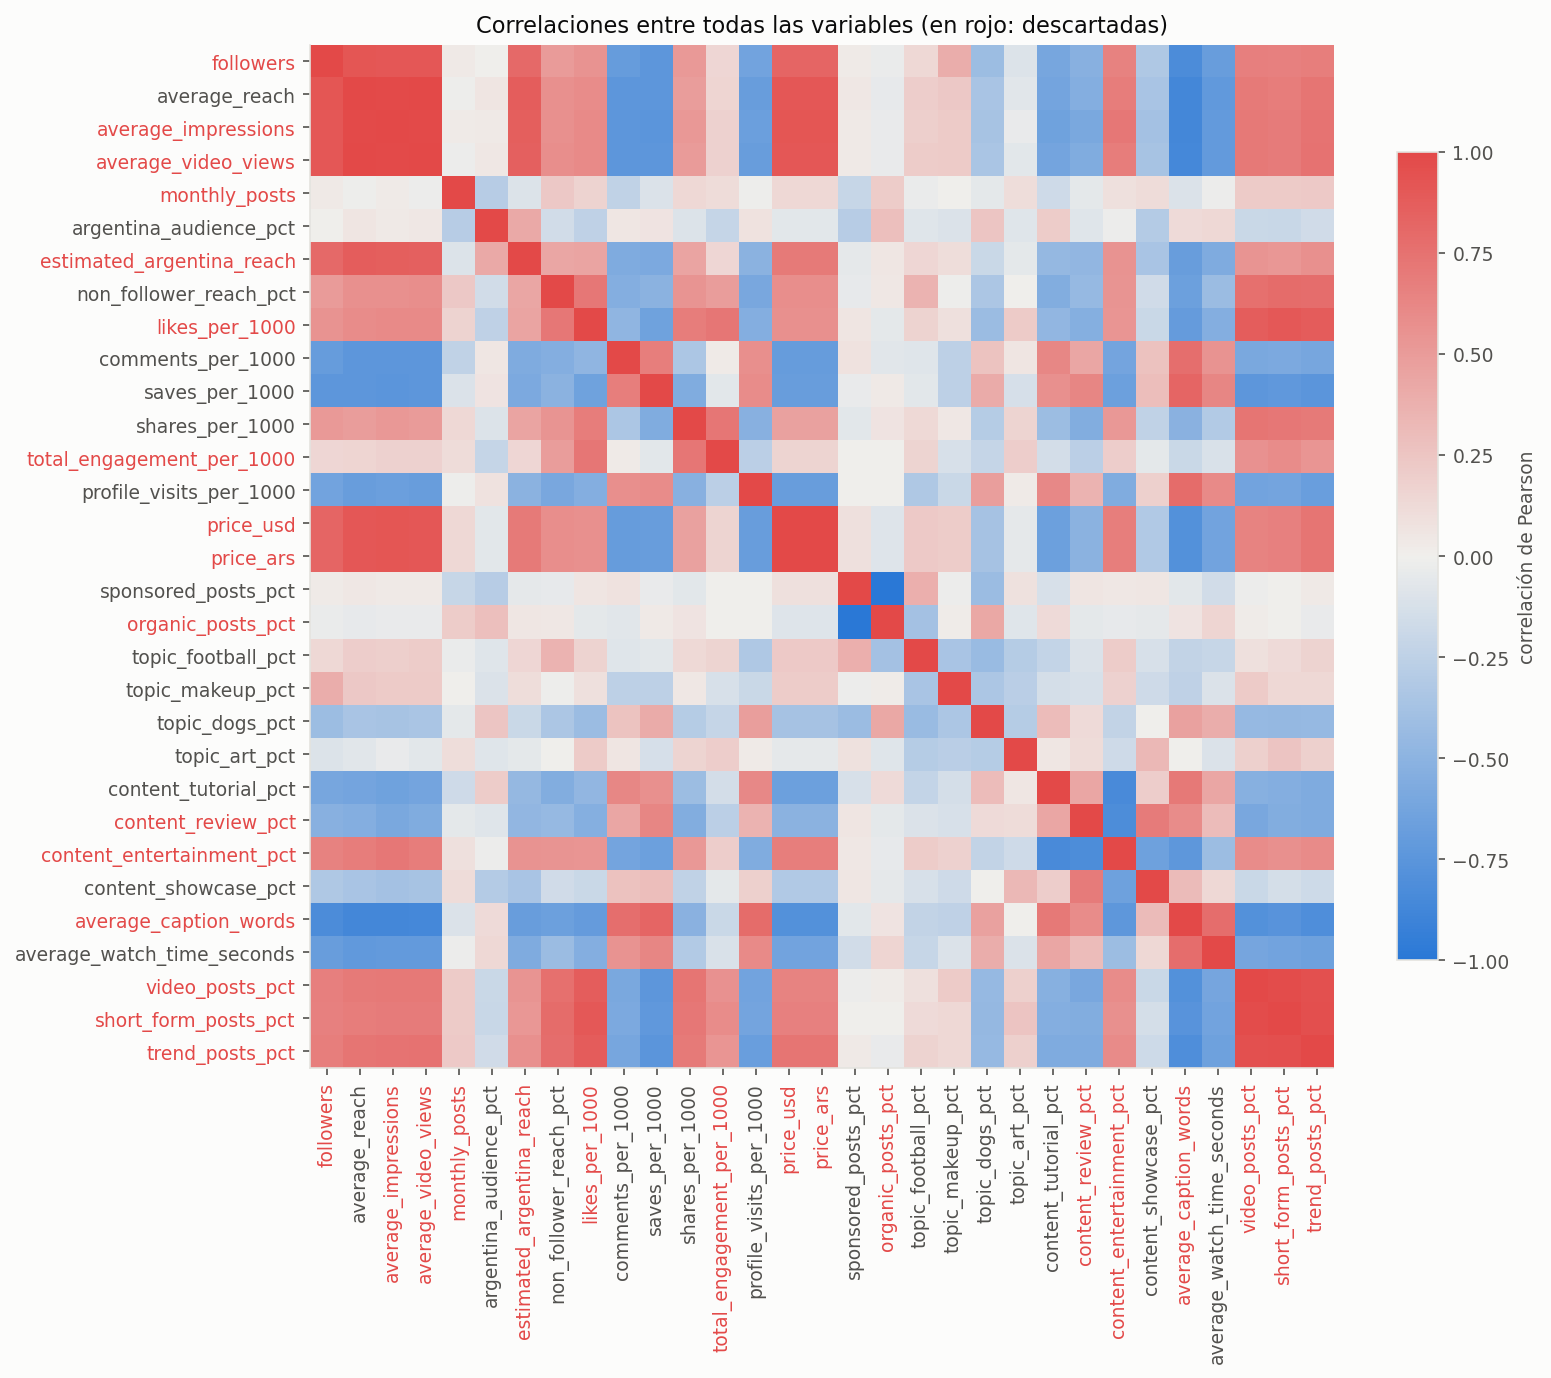
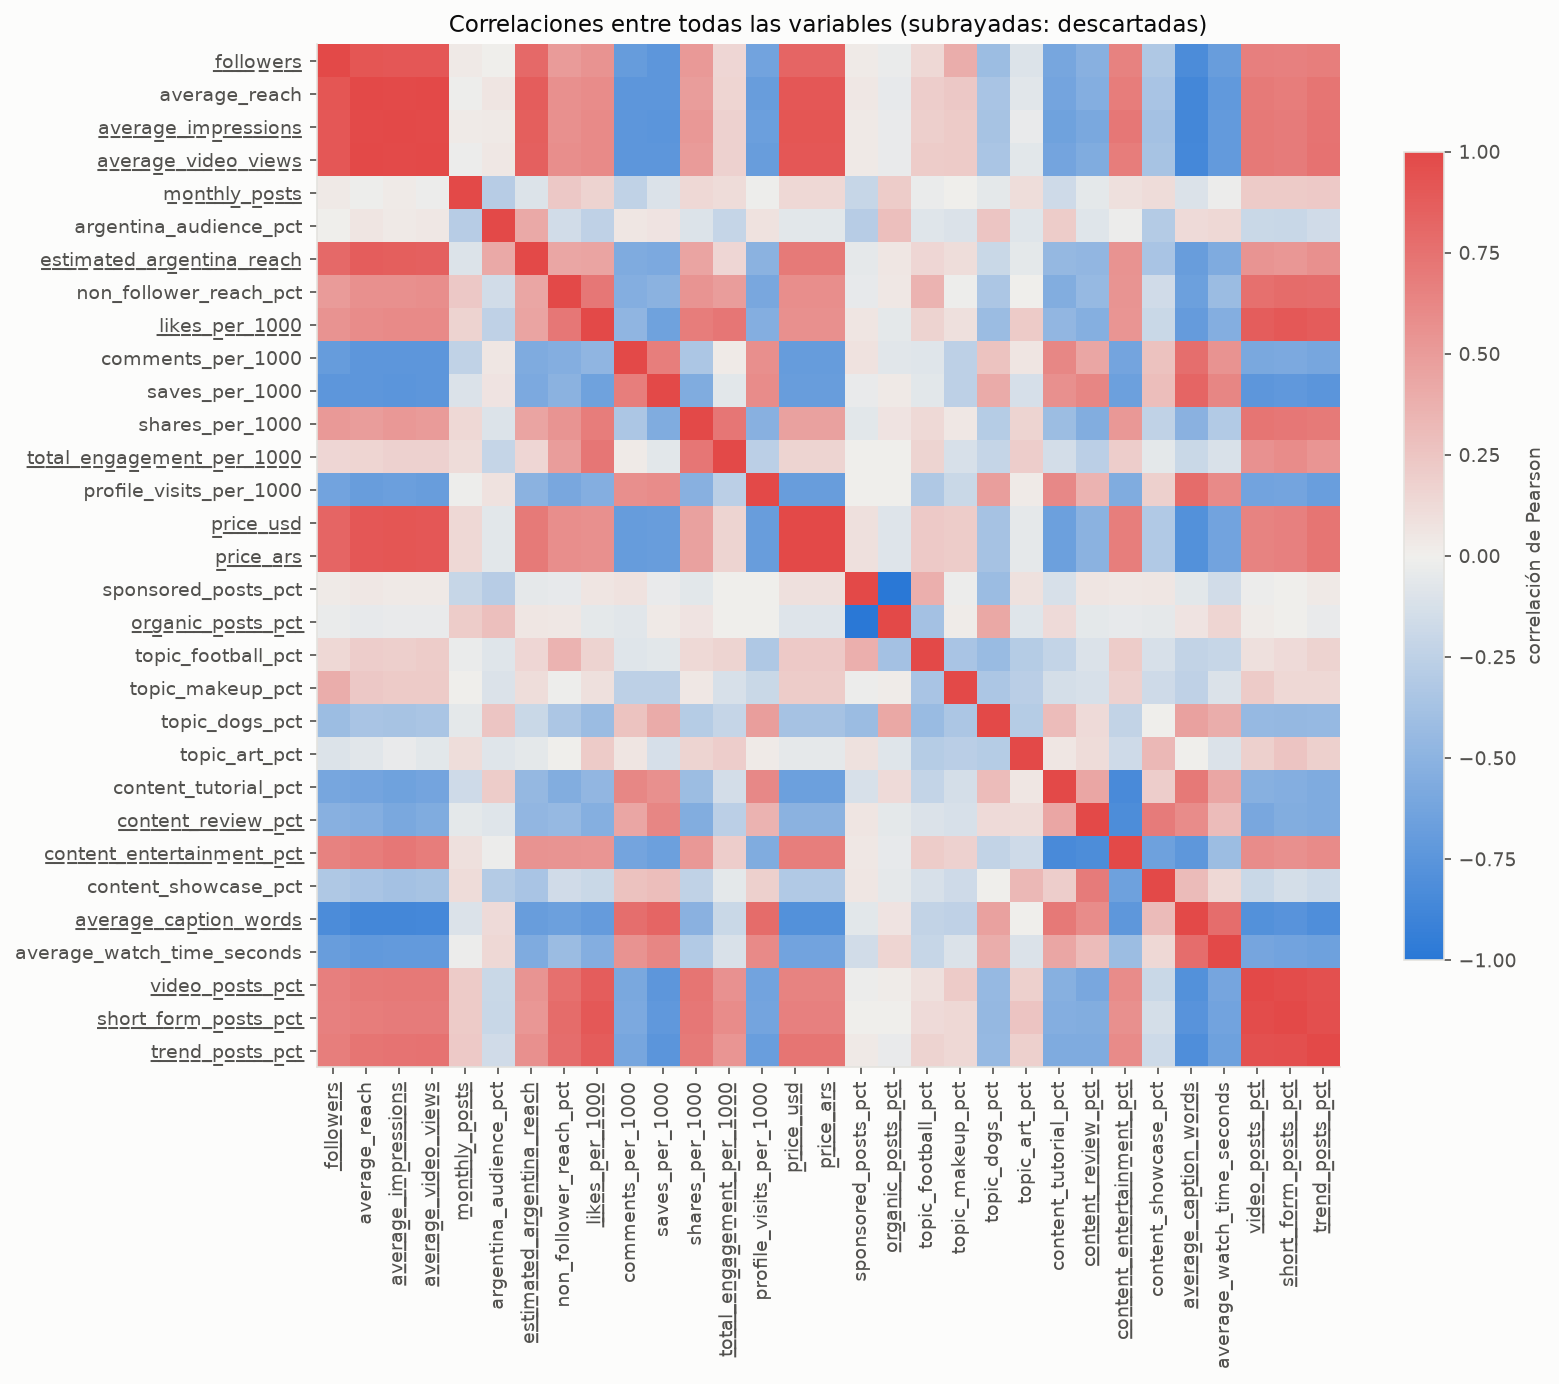
cambio visual de corrleaciones.png

diff --git a/TP4/exploracion.py b/TP4/exploracion.py
@@ -52,12 +52,16 @@ def grafico_correlaciones(df, variables):
     corr = df[numericas].corr().to_numpy()
     fig, ax = plt.subplots(figsize=(11, 10))
     im = heatmap(ax, corr, numericas, numericas)
-    # Las descartadas (ver seleccion.py) quedan marcadas en las etiquetas.
-    for etiqueta in [*ax.get_xticklabels(), *ax.get_yticklabels()]:
-        if etiqueta.get_text() not in variables:
-            etiqueta.set_color("#e34948")
+    # Las descartadas (ver seleccion.py) quedan subrayadas en las etiquetas.
+
+    def subrayar(nombre):
+        return "".join(f"{caracter}\u0332" for caracter in nombre)
+
+    ax.set_xticklabels([nombre if nombre in variables else subrayar(nombre) for nombre in numericas],
+                       rotation=90)
+    ax.set_yticklabels([nombre if nombre in variables else subrayar(nombre) for nombre in numericas])
     fig.colorbar(im, ax=ax, shrink=0.7, label="correlación de Pearson")
-    ax.set_title("Correlaciones entre todas las variables (en rojo: descartadas)")
+    ax.set_title("Correlaciones entre todas las variables (subrayadas: descartadas)")
     guardar(fig, "correlaciones.png")
 
 
